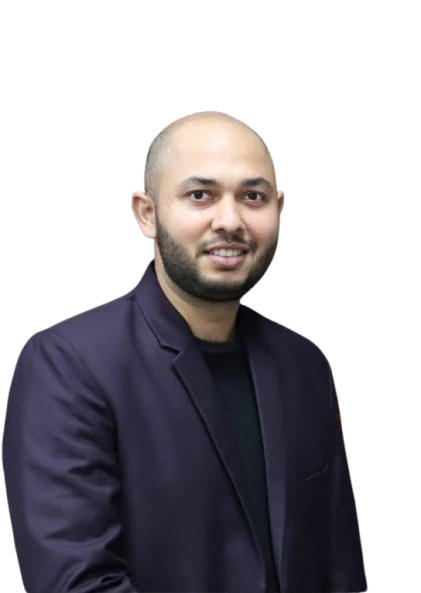
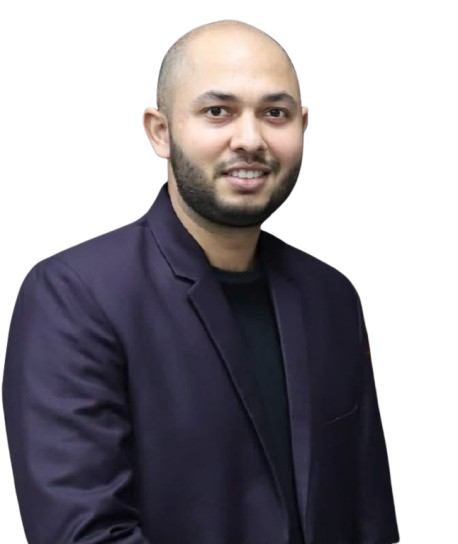
save

diff --git a/style.css b/style.css
@@ -339,13 +339,45 @@ body {
 /* ========================
    MOBILE RESPONSIVE
    ======================== */
+   /* ========================
+   MOBILE BUTTONS FIX (Smaller & Stacked)
+   ======================== */
+@media (max-width: 991px) {
+    
+    /* Container ko set kiya */
+    .hero-btns {
+        flex-direction: column; /* Buttons upar neeche ayen */
+        gap: 10px;              /* Beech mein thora gap */
+        width: 100%;
+        max-width: 280px;       /* Ziada choray na hon */
+        margin: 0 auto 30px;    /* Center mein rahen */
+    }
+
+    /* Buttons ka size control */
+    .btn-primary-hero, 
+    .btn-secondary-hero {
+        padding: 10px 20px;     /* Padding adhi kar di */
+        font-size: 14px;        /* Text chota kiya */
+        width: 100%;            /* Button barabar size k honge */
+        display: flex;
+        justify-content: center; /* Text center */
+        align-items: center;
+        height: 45px;           /* Fixed height taake neat lagen */
+    }
+    
+    /* Link tag jo button k bahar hai usay bhi full width karna zaroori hai */
+    .hero-btns a {
+        width: 100%;
+        text-decoration: none;
+    }
+}
 @media (max-width: 991px) {
     .hero-section {
         height: auto;
         padding-top: 100px;
         text-align: center;
     }
-
+ 
     .hero-row { flex-direction: column; }
 
     .hero-text h1 { font-size: 2.2rem; }
@@ -695,8 +727,7 @@ body {
     height: 400px; 
     overflow: hidden;
     border-radius: 15px;
-    margin-bottom: 20px;
-    box-shadow: 0 10px 25px rgba(0,0,0,0.1);
+    margin-bottom: 20px; 
 }
 
 .member-img {

diff --git a/index.html b/index.html
@@ -218,7 +218,7 @@
             <div class="col-lg-5 col-md-6 mb-5 mb-lg-0">
                 <div class="team-member" data-aos="fade-up" data-aos-delay="100">
                     <div class="img-wrapper">
-                        <img src="./Images/c.png" alt="Founder Name" class="member-img">
+                        <img src="./Images/c1.png" alt="Founder Name" class="member-img">
                     </div>
                     
                     <div class="member-info">
